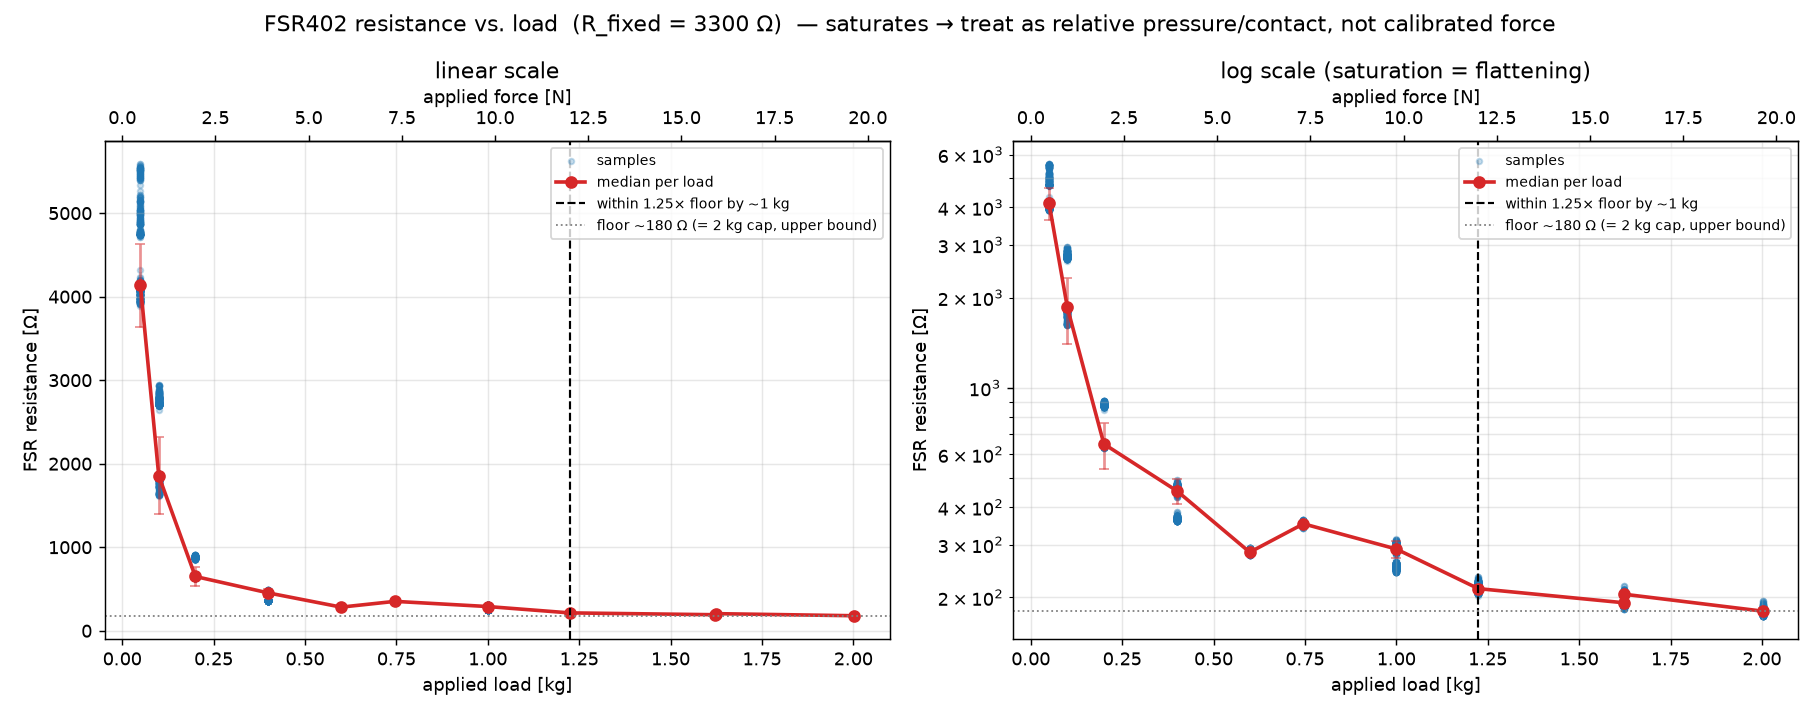
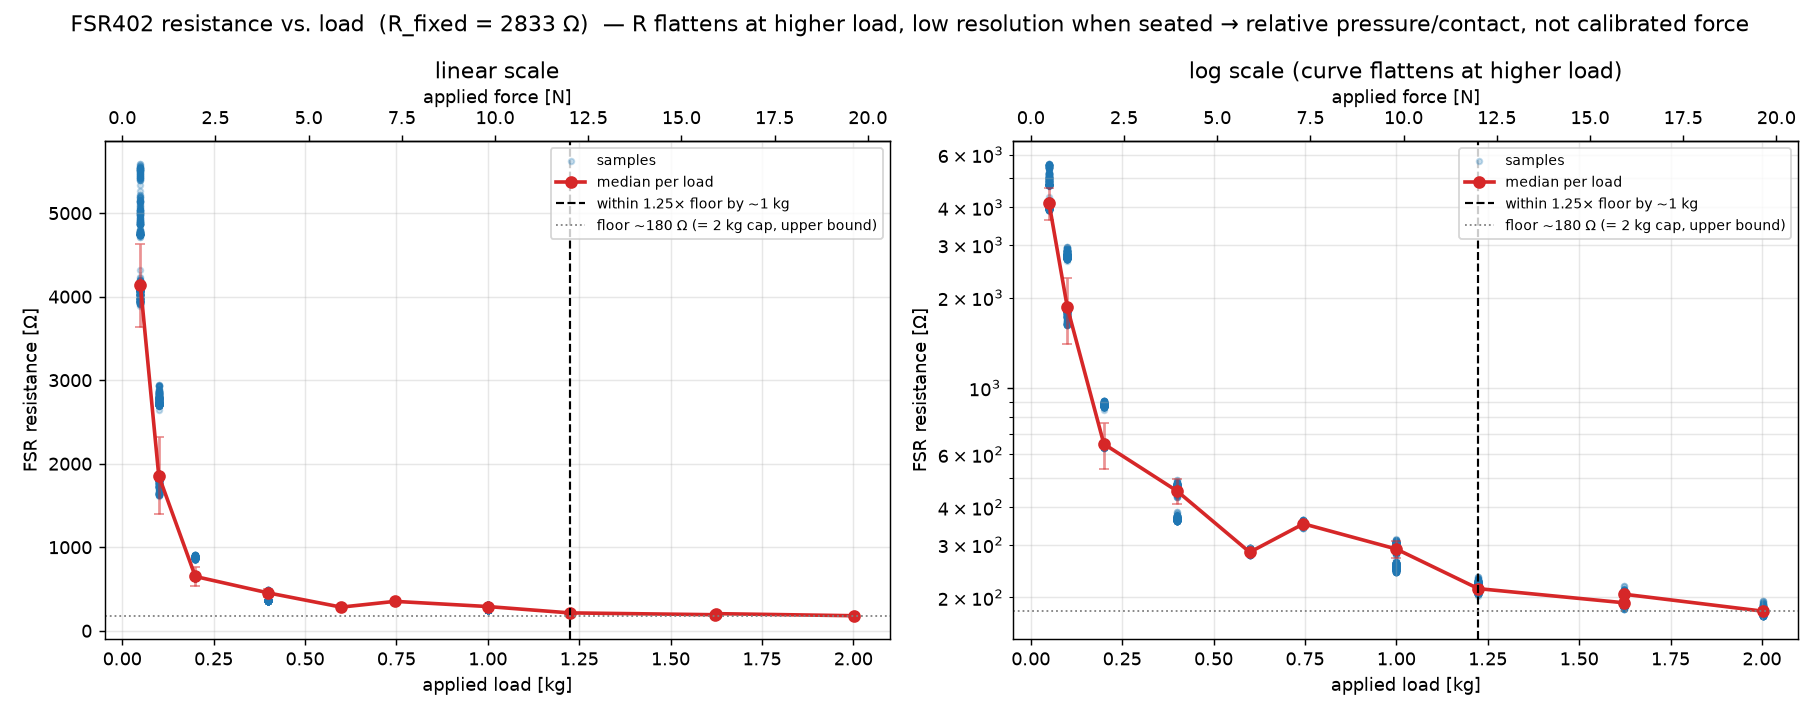
report: precise FSR curve wording + ABNT figure sources
Per author feedback:
- Drop the misleading "saturação"/"joelho" framing. The ~1,2 kg point is the
  elbow of the *measured* 0–2 kg curve (most of the R drop happens below it),
  not sensor saturation — the FSR402 is rated ~10 kg and was only loaded to
  2 kg, with R still descending at the cap. Reworded precisely (abstract,
  paragraph, caption) so no explicit "not saturation" disclaimer is needed.
  Saturation now appears only in Próximas etapas as unmeasured future work.
  fsr_curve.png regenerated: figure text softened to match ("R flattens at
  higher load, low resolution when seated"), no "saturates" claim.
- Figure/table "Fonte:" lines → "Elaborado pelo autor (2026)" (ABNT), replacing
  the script-command sources; reproducibility note now points to analysis/.

Changed region(s): [[0.0308, 0.0, 0.9538, 0.0615], [0.6462, 0.0923, 0.8923, 0.1231]]

diff --git a/report/relatorio_parcial.tex b/report/relatorio_parcial.tex
@@ -59,8 +59,9 @@ $\sim$8{,}0\degree{} (pitch) e $\sim$21{,}6\degree{} (roll), justificando a
 calibração por usuário (OE1); o sensor separa 5 de 6 posturas, falhando apenas no
 par curvar-para-frente {\itshape vs.} cabeça-baixa (distância de centroides
 6{,}9\degree{} contra $\geq$21{,}7\degree{} nos demais pares) --- o que motiva
-diretamente a fusão com os FSR. No canal FSR, a resposta satura e deve ser tratada
-como \emph{pressão relativa}, não força calibrada; a variação por montagem
+diretamente a fusão com os FSR. No canal FSR, a resposta achata-se em cargas mais
+altas e tem baixa resolução no regime sentado, devendo ser tratada como
+\emph{pressão relativa}, não força calibrada; a variação por montagem
 (transiente de assentamento, 3--11$\times$) domina a variação entre peças
 (10--46\,\%, conforme a carga). Os resultados são descritivos, de \textbf{viabilidade por
 canal} (1 sujeito, 3 sensores, posturas pronunciadas); integração, fusão e
@@ -331,8 +332,8 @@ analisada.
 Processamento em Python/pandas (\texttt{analysis/}, ambiente \texttt{.venv}),
 determinístico e re-executável: carregadores robustos a artefatos de serial,
 medianas por nível de carga (com fusão do \emph{jitter} de digitação), separação
-sobe/desce, e ajustes de lei de potência e de condutância. Cada figura deste
-relatório é regenerável pelo script citado em sua legenda.
+sobe/desce, e ajustes de lei de potência e de condutância. Cada figura é
+regenerável pelos scripts de análise versionados em \texttt{analysis/}.
 
 % =====================================================================
 \section{Resultados Parciais}
@@ -356,7 +357,7 @@ forma confiável --- motivação concreta para a fusão de sensores.
   sobreposto.}
   \label{fig:sep}
   \includegraphics[width=0.9\linewidth]{02_separation.png}
-  \fonte{\texttt{analysis/plot\_postures.py -\/-csv data/2026-06-19\_andre\_no-neck-mount\_own-chair.csv}}
+  \fonte{Elaborado pelo autor (2026)}
 \end{figure}
 
 \paragraph{Deriva por remontagem (OE1).}
@@ -375,7 +376,7 @@ calibração documentada no repositório.
   fundamenta a calibração por usuário (OE1).}
   \label{fig:redon}
   \includegraphics[width=0.85\linewidth]{04_redon_drift.png}
-  \fonte{\texttt{analysis/plot\_postures.py -\/-csv data/2026-06-19\_andre\_no-neck-mount\_own-chair.csv}}
+  \fonte{Elaborado pelo autor (2026)}
 \end{figure}
 
 \paragraph{Limiar de alerta proposto ($\approx$10\degree{}).}
@@ -394,7 +395,7 @@ naturais e em mais sujeitos, não de uma figura de desempenho validada.
   proposto de $\sim$10\degree{}.}
   \label{fig:alert}
   \includegraphics[width=0.85\linewidth]{06_alert_threshold.png}
-  \fonte{\texttt{analysis/plot\_postures.py -\/-csv data/2026-06-19\_andre\_no-neck-mount\_own-chair.csv}}
+  \fonte{Elaborado pelo autor (2026)}
 \end{figure}
 
 \noindent A saúde do sensor foi confirmada: $|g| = 0{,}993 \pm 0{,}004$\,g em
@@ -403,20 +404,21 @@ repouso, com toda excursão fora de faixa coincidindo com amostras de transiçã
 
 \subsection{Canal FSR (Campanha B)}
 
-\paragraph{Curva resistência {\itshape vs.} carga e saturação.}
-A resistência cai de $\sim$4134\,\ohm{} (toque leve) para $\sim$180\,\ohm{}, com o
-\emph{joelho} de saturação por volta de $\sim$1{,}2\,kg (Figura~\ref{fig:curve}).
-\textbf{Ressalva importante:} esse ``piso'' de 158--180\,\ohm{} é a resistência
-\emph{no topo da escala (2\,kg)} --- um \textbf{limite superior} do piso real, não a
-assíntota, pois um adulto sentado carrega muito além de 2\,kg. Portanto, a leitura
-deve ser tratada como \textbf{pressão relativa / contato}, não força calibrada.
+\paragraph{Curva resistência {\itshape vs.} carga.}
+A resistência cai de $\sim$4134\,\ohm{} (toque leve) para $\sim$180\,\ohm{} no topo
+da escala (2\,kg), concentrando a maior parte da queda abaixo de $\sim$1{,}2\,kg; a
+partir daí a curva achata-se e a sensibilidade torna-se baixa (Figura~\ref{fig:curve}).
+\textbf{Ressalva importante:} esses 158--180\,\ohm{} são a resistência medida
+\emph{no topo da escala de 2\,kg}, e não um piso real --- a curva ainda decresce nesse
+limite e um adulto sentado carrega muito além de 2\,kg. Portanto, a leitura deve ser
+tratada como \textbf{pressão relativa / contato}, não força calibrada.
 
 \begin{figure}[H]
   \centering
-  \caption{R {\itshape vs.} carga (FSR1) com o joelho de saturação.}
+  \caption{R {\itshape vs.} carga (FSR1): a maior parte da queda ocorre abaixo de $\sim$1{,}2\,kg.}
   \label{fig:curve}
   \includegraphics[width=0.85\linewidth]{fsr_curve.png}
-  \fonte{\texttt{analysis/plot\_fsr\_curve.py -\/-units g}}
+  \fonte{Elaborado pelo autor (2026)}
 \end{figure}
 
 \paragraph{Modelo de resposta e resolução.}
@@ -433,7 +435,7 @@ $\sim$3{,}1\,\ohm{}/contagem no piso ($\approx$1{,}7\,\% por contagem) ---
   \caption{Ajuste lei de potência, linearidade da condutância e resolução do ADC.}
   \label{fig:model}
   \includegraphics[width=0.9\linewidth]{fsr_model.png}
-  \fonte{\texttt{analysis/plot\_fsr\_model.py}}
+  \fonte{Elaborado pelo autor (2026)}
 \end{figure}
 
 \paragraph{Histerese.}
@@ -448,7 +450,7 @@ toque leve.
   \caption{Laço de histerese (carga {\itshape vs.} descarga) por nível.}
   \label{fig:hyst}
   \includegraphics[width=0.85\linewidth]{fsr_hysteresis.png}
-  \fonte{\texttt{analysis/plot\_fsr\_hysteresis.py}}
+  \fonte{Elaborado pelo autor (2026)}
 \end{figure}
 
 \paragraph{Creep (deriva sob carga constante).}
@@ -463,7 +465,7 @@ relativo, não calibrado, e para a recalibração periódica.
   11\,min).}
   \label{fig:creep}
   \includegraphics[width=0.85\linewidth]{fsr_creep.png}
-  \fonte{\texttt{analysis/plot\_fsr\_creep.py -\/-units g}}
+  \fonte{Elaborado pelo autor (2026)}
 \end{figure}
 
 \paragraph{Variação entre peças {\itshape vs.} montagem (o resultado forte).}
@@ -490,7 +492,7 @@ subida $\approx$9\,k\ohm{} contra descida 812\,\ohm{}), conforme os marcadores o
     2000  & 180 & 164 & 173 & 10\,\% \\
     \bottomrule
   \end{tabular}
-  \fonte{\texttt{analysis/plot\_fsr\_parttopart.py -\/-both}}
+  \fonte{Elaborado pelo autor (2026)}
 \end{table}
 
 \begin{figure}[H]
@@ -500,7 +502,7 @@ subida $\approx$9\,k\ohm{} contra descida 812\,\ohm{}), conforme os marcadores o
   $\triangledown$) excedem em muito a variação real entre peças.}
   \label{fig:p2p}
   \includegraphics[width=\linewidth]{fsr_parttopart.png}
-  \fonte{\texttt{analysis/plot\_fsr\_parttopart.py -\/-both}}
+  \fonte{Elaborado pelo autor (2026)}
 \end{figure}
 
 \noindent\textbf{Leitura honesta deste resultado.} O fator 3--11$\times$ é um

diff --git a/analysis/plot_fsr_curve.py b/analysis/plot_fsr_curve.py
@@ -117,7 +117,7 @@ def main() -> int:
             ax.axhline(floor, color="grey", ls=":", lw=1, label=floor_lbl)
         if logy:
             ax.set_yscale("log")
-            ax.set_title("log scale (saturation = flattening)")
+            ax.set_title("log scale (curve flattens at higher load)")
         else:
             ax.set_title("linear scale")
         ax.set_xlabel("applied load [kg]")
@@ -128,7 +128,8 @@ def main() -> int:
         sec = ax.secondary_xaxis("top", functions=(lambda k: k * G, lambda n: n / G))
         sec.set_xlabel("applied force [N]")
     fig.suptitle(f"FSR402 resistance vs. load  (R_fixed = {args.rfixed:.0f} Ω)  — "
-                 "saturates → treat as relative pressure/contact, not calibrated force")
+                 "R flattens at higher load, low resolution when seated → "
+                 "relative pressure/contact, not calibrated force")
     fig.tight_layout()
     FIG_DIR.mkdir(exist_ok=True)
     out = FIG_DIR / "fsr_curve.png"
